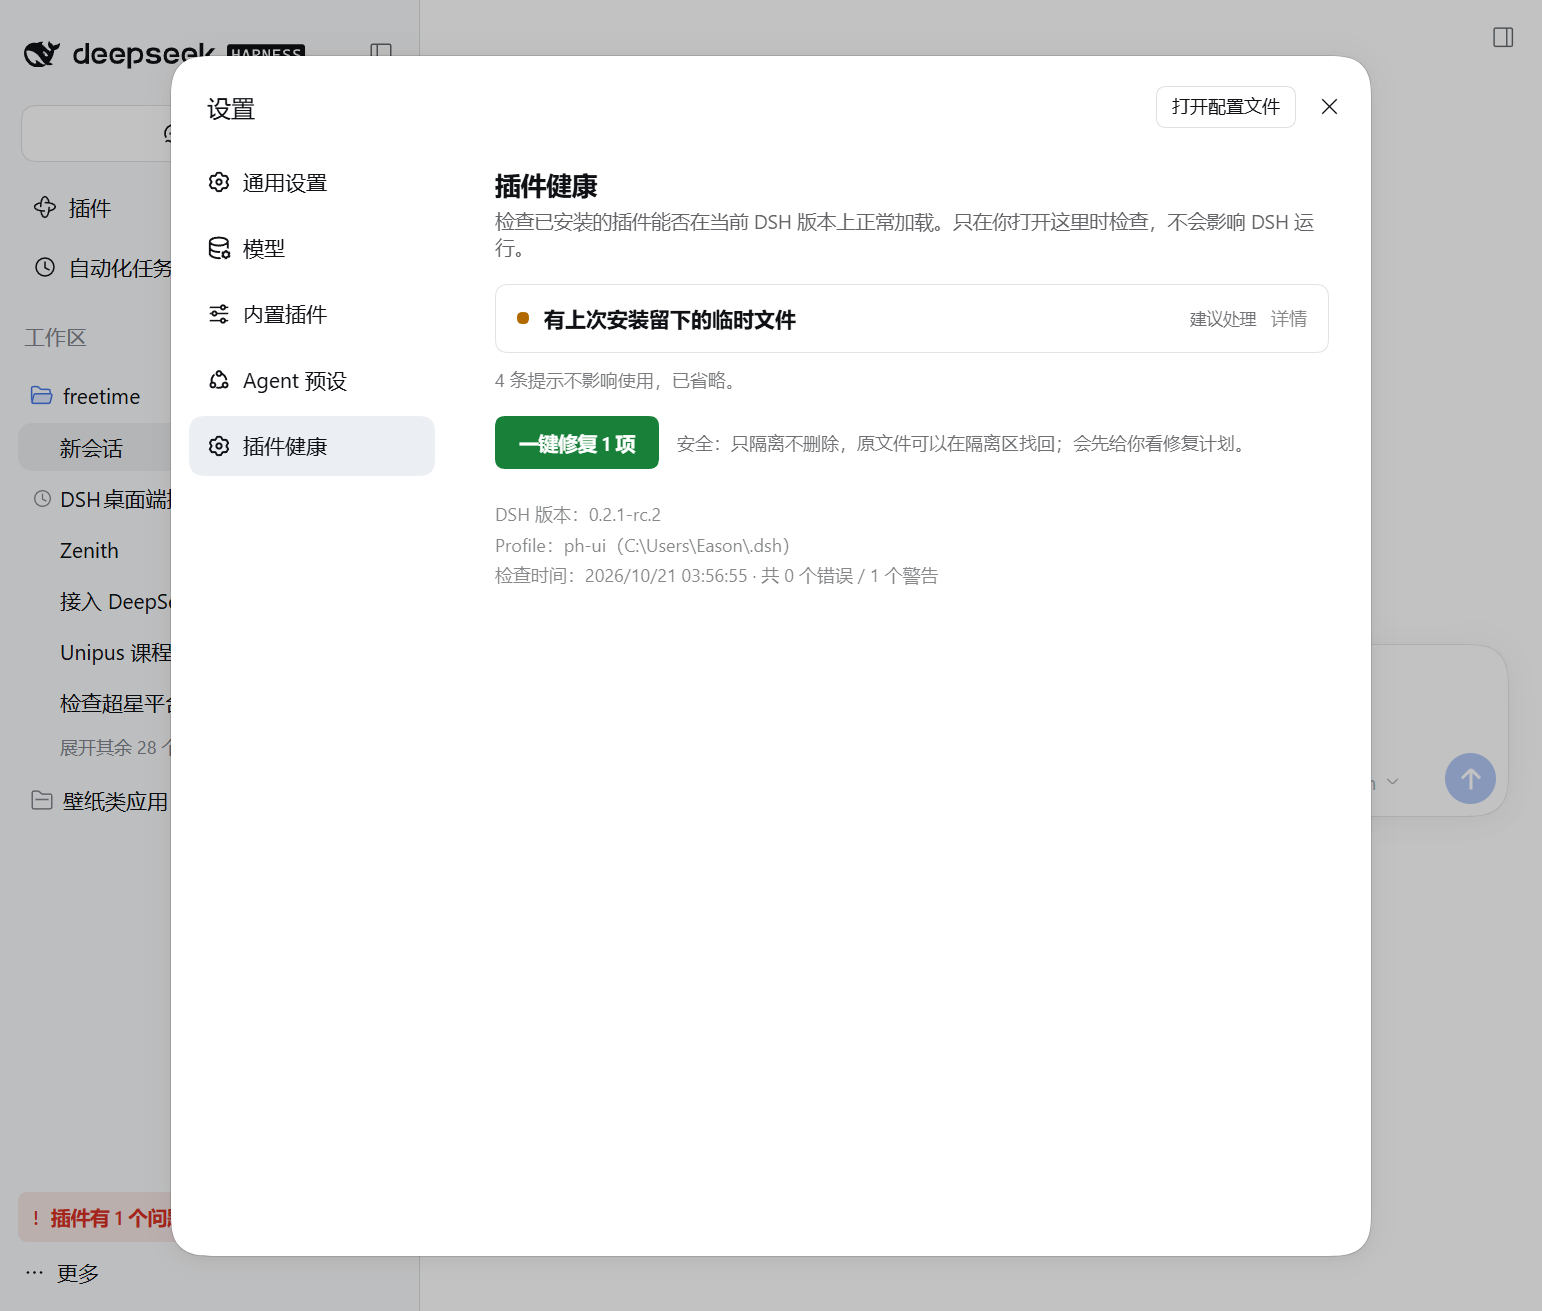
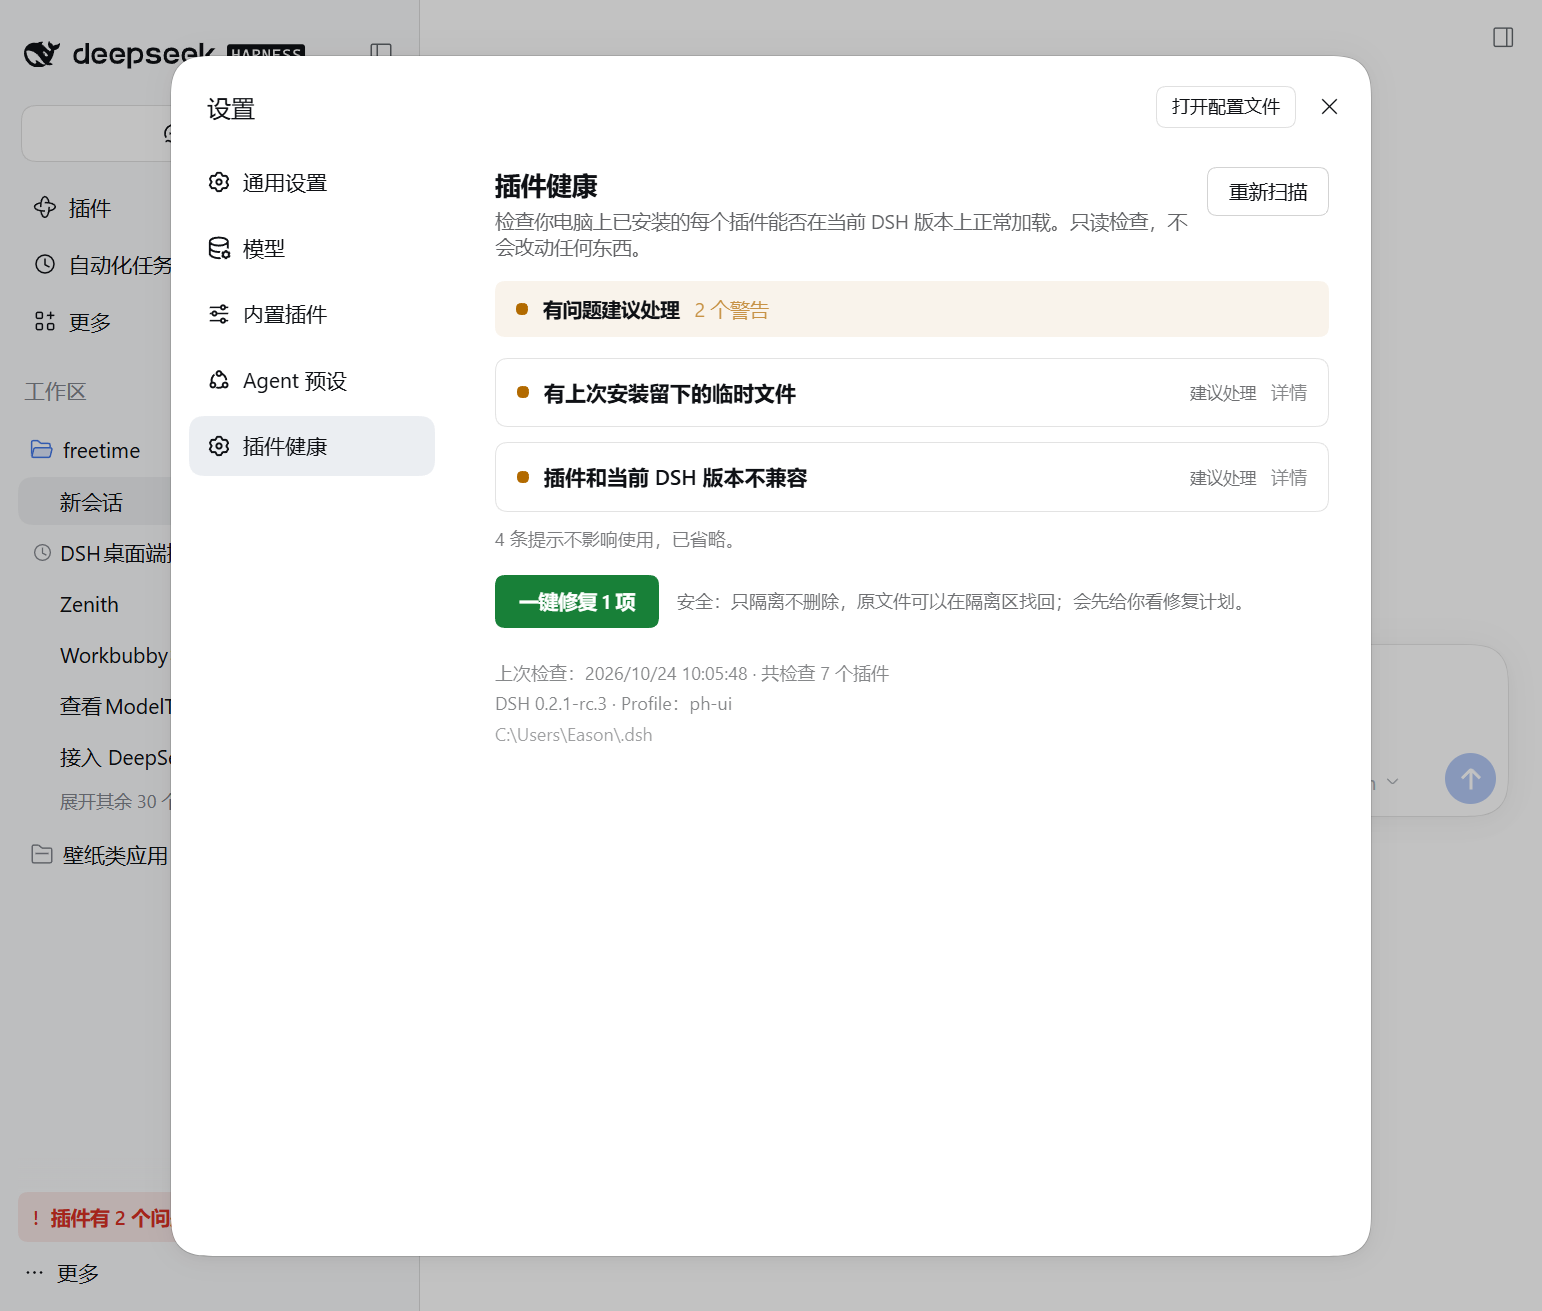
feat(ui): verdict line, checked-plugin count, rescan button

diff --git a/src/ui/client.js b/src/ui/client.js
@@ -282,7 +282,7 @@ window.__ModuleLoader__.load({
       ])
     }
 
-    function EmptyState() {
+    function EmptyState({ scanned }) {
       return h('div', {
         style: {
           display: 'flex',
@@ -294,32 +294,107 @@ window.__ModuleLoader__.load({
           color: COLORS.ok,
           fontSize: 14,
           fontWeight: 600,
+          flexWrap: 'wrap',
         },
-      }, [h('span', { key: 'i', style: { fontSize: 18 } }, '✓'), h('span', { key: 't' }, '一切正常，没有发现插件冲突')])
+      }, [
+        h('span', { key: 'i', style: { fontSize: 18 } }, '✓'),
+        h('span', { key: 't' }, '一切正常，没有发现插件冲突'),
+        scanned !== undefined
+          ? h('span', { key: 'n', style: { fontSize: 12, fontWeight: 400, opacity: 0.65 } }, `已检查 ${scanned} 个已安装插件`)
+          : null,
+      ])
+    }
+
+    /** One-line verdict a first-time user can act on without reading the list. */
+    function Verdict({ errorCount, warnCount, scanned, runtimeVersion }) {
+      const parts = []
+      if (errorCount > 0) parts.push(h('span', { key: 'e', style: { color: COLORS.error } }, `${errorCount} 个错误`))
+      if (warnCount > 0) parts.push(h('span', { key: 'w', style: { color: COLORS.warn } }, `${warnCount} 个警告`))
+      const clean = errorCount === 0 && warnCount === 0
+      return h('div', {
+        style: {
+          display: 'flex',
+          alignItems: 'center',
+          gap: 10,
+          flexWrap: 'wrap',
+          padding: '10px 14px',
+          borderRadius: 8,
+          marginBottom: 14,
+          fontSize: 13,
+          background: clean ? 'rgba(52,168,83,.08)' : 'rgba(178,106,0,.08)',
+        },
+      }, [
+        h('span', { key: 'd', style: { width: 8, height: 8, borderRadius: '50%', background: clean ? COLORS.ok : COLORS.warn, flex: '0 0 auto' } }),
+        h('span', { key: 't', style: { fontWeight: 600 } }, clean ? '可以放心用' : '有问题建议处理'),
+        h('span', { key: 's', style: { opacity: 0.7 } }, clean
+          ? `共检查 ${scanned ?? '?'} 个插件${runtimeVersion ? `，DSH ${runtimeVersion}` : ''}`
+          : parts),
+      ])
+    }
+
+    function ScanButton({ onClick, busy }) {
+      return h('button', {
+        onClick,
+        disabled: busy === true,
+        style: {
+          border: '1px solid rgba(128,128,128,.35)',
+          borderRadius: 8,
+          padding: '7px 14px',
+          cursor: busy === true ? 'default' : 'pointer',
+          background: 'transparent',
+          color: 'inherit',
+          font: 'inherit',
+          fontSize: 13,
+          opacity: busy === true ? 0.55 : 1,
+        },
+      }, busy === true ? '正在扫描…' : '重新扫描')
     }
 
     function HealthSection() {
       const { loading, error, data, reload } = useStatus()
       const repair = useRepair(reload)
+      const [scanning, setScanning] = React.useState(false)
       const issues = data?.issues ?? []
       const actionable = issues.filter((issue) => issue.severity !== 'info')
       const autoFixable = actionable.filter((issue) => issue.autoFixable === true)
       const summary = data?.summary ?? {}
       const repairKey = data?.repairKey
+      const scanned = data?.scanned?.plugins?.total
+
+      const rescan = React.useCallback(async () => {
+        setScanning(true)
+        try {
+          await reload()
+        } finally {
+          setScanning(false)
+        }
+      }, [reload])
 
       return h('div', { style: { padding: '20px 4px', maxWidth: 760 } }, [
-        h('div', { key: 'head', style: { marginBottom: 16 } }, [
-          h('div', { key: 't', style: { fontSize: 17, fontWeight: 700 } }, '插件健康'),
-          h('div', { key: 's', style: { fontSize: 13, opacity: 0.65, marginTop: 4 } },
-            '检查已安装的插件能否在当前 DSH 版本上正常加载。只在你打开这里时检查，不会影响 DSH 运行。'),
+        h('div', { key: 'head', style: { marginBottom: 14, display: 'flex', alignItems: 'flex-start', gap: 12, flexWrap: 'wrap' } }, [
+          h('div', { key: 'l', style: { flex: '1 1 320px', minWidth: 0 } }, [
+            h('div', { key: 't', style: { fontSize: 17, fontWeight: 700 } }, '插件健康'),
+            h('div', { key: 's', style: { fontSize: 13, opacity: 0.65, marginTop: 4 } },
+              '检查你电脑上已安装的每个插件能否在当前 DSH 版本上正常加载。只读检查，不会改动任何东西。'),
+          ]),
+          h('div', { key: 'r', style: { flex: '0 0 auto' } }, h(ScanButton, { onClick: rescan, busy: scanning || loading })),
         ]),
         loading ? h('div', { key: 'l', style: { fontSize: 13, opacity: 0.7 } }, '正在检查…') : null,
         error !== undefined ? h('div', { key: 'e', style: { fontSize: 13, color: COLORS.warn } }, [
           h('div', { key: 't', style: { fontWeight: 600, marginBottom: 4 } }, '检查失败'),
           h('div', { key: 'd' }, error),
-          h('div', { key: 'h', style: { marginTop: 4, opacity: 0.7 } }, 'DSH 刚启动时可能还没准备好，页面会自动重试。'),
+          h('div', { key: 'h', style: { marginTop: 4, opacity: 0.7 } }, 'DSH 刚启动时可能还没准备好，点「重新扫描」再试一次。'),
         ]) : null,
-        !loading && error === undefined ? (actionable.length === 0 ? h(EmptyState, { key: 'ok' }) : h('div', { key: 'list' },
+        !loading && error === undefined
+          ? h(Verdict, {
+            key: 'v',
+            errorCount: summary.error ?? 0,
+            warnCount: summary.warn ?? 0,
+            scanned,
+            runtimeVersion: data?.runtimeVersion,
+          })
+          : null,
+        !loading && error === undefined ? (actionable.length === 0 ? h(EmptyState, { key: 'ok', scanned }) : h('div', { key: 'list' },
           actionable.map((issue, index) => h(Finding, { key: `${issue.id}-${index}`, issue })))) : null,
         !loading && error === undefined && issues.length > actionable.length
           ? h('div', { key: 'info', style: { marginTop: 6, fontSize: 12, opacity: 0.55 } },
@@ -389,9 +464,9 @@ window.__ModuleLoader__.load({
           : null,
         data
           ? h('div', { key: 'meta', style: { marginTop: 20, fontSize: 12, opacity: 0.5, lineHeight: 1.7 } }, [
-            h('div', { key: 'v' }, `DSH 版本：${data.runtimeVersion ?? '未知'}`),
-            h('div', { key: 'p' }, `Profile：${data.profile ?? '未知'}（${data.home}）`),
-            h('div', { key: 'c' }, `检查时间：${new Date(data.generatedAt).toLocaleString()} · 共 ${summary.error ?? 0} 个错误 / ${summary.warn ?? 0} 个警告`),
+            h('div', { key: 'c' }, `上次检查：${new Date(data.generatedAt).toLocaleString()}${scanned !== undefined ? ` · 共检查 ${scanned} 个插件` : ''}`),
+            h('div', { key: 'v' }, `DSH ${data.runtimeVersion ?? '未知'} · Profile：${data.profile ?? '未知'}`),
+            h('div', { key: 'h', style: { opacity: 0.8 } }, `${data.home}`),
           ])
           : null,
       ])

diff --git a/src/ui/status.js b/src/ui/status.js
@@ -10,7 +10,7 @@ export const STATUS_PATH = '/plugins/dsh-plugin-health/status'
 /**
  * Turn an inspection result into the small document the UI consumes.
  * @param {{home?: string, profile?: string, runtimeVersion?: string, now?: number}} [options]
- * @returns {{schemaVersion: number, generatedAt: string, runtimeVersion: string|null, profile: string|null, profileDir: string|null, home: string, summary: object, incompatible: number, issues: object[]}}
+ * @returns {{schemaVersion: number, generatedAt: string, runtimeVersion: string|null, profile: string|null, profileDir: string|null, home: string, summary: object, incompatible: number, scanned: object, issues: object[]}}
  */
 export function buildStatus({ home, profile, runtimeVersion, now = Date.now() } = {}) {
   const result = inspectDshHome({ home, profile, runtimeVersion })
@@ -23,7 +23,7 @@ export function buildStatus({ home, profile, runtimeVersion, now = Date.now() } 
     autoFixable: item.fix?.auto === true,
   }))
   return {
-    schemaVersion: 1,
+    schemaVersion: 2,
     generatedAt: new Date(now).toISOString(),
     runtimeVersion: typeof runtimeVersion === 'string' && runtimeVersion !== '' ? runtimeVersion : null,
     profile: result.profile ?? null,
@@ -31,6 +31,8 @@ export function buildStatus({ home, profile, runtimeVersion, now = Date.now() } 
     home: result.home,
     summary: result.summary,
     incompatible: issues.filter((issue) => issue.id === 'plugin-incompatible').length,
+    // What was actually inspected, so the UI can say "checked N plugins" instead of implying a sample.
+    scanned: { plugins: result.scannedPlugins ?? null },
     issues,
   }
 }

diff --git a/test/ui.test.js b/test/ui.test.js
@@ -23,12 +23,14 @@ test('buildStatus reports a healthy empty profile', () => {
   const home = tempHome()
   try {
     const status = buildStatus({ home, profile: 'desktop', runtimeVersion: '0.2.1-rc.2', now: 0 })
-    assert.equal(status.schemaVersion, 1)
+    assert.equal(status.schemaVersion, 2)
     assert.equal(status.profile, 'desktop')
     assert.equal(status.runtimeVersion, '0.2.1-rc.2')
     assert.equal(status.incompatible, 0)
     assert.equal(status.generatedAt, new Date(0).toISOString())
     assert.ok(Array.isArray(status.issues))
+    // The UI says "checked N plugins"; the count must describe what was actually inspected.
+    assert.equal(typeof status.scanned?.plugins?.total, 'number')
   } finally {
     rmSync(home, { recursive: true, force: true })
   }

diff --git a/src/repair/inspect.js b/src/repair/inspect.js
@@ -139,6 +139,16 @@ export function inspectDshHome({ home, profile, runtimeVersion } = {}) {
   inspectRuntime(profileDir, bundles, runtimeVersion, findings, manifest)
   inspectProfileDrift(resolvedHome, selected, findings)
 
+  // How many plugins were actually checked, so the UI can say "checked N" instead of implying a
+  // sample. Host packages are reported separately because they are the reference, not the subject.
+  if (manifest !== undefined) {
+    const installed = listInstalledPlugins(profileDir, manifest)
+    result.scannedPlugins = {
+      total: installed.length,
+      thirdParty: installed.filter((item) => !item.name.startsWith('@deepseek-ai/')).length,
+    }
+  }
+
   return withSummary(result)
 }
 

diff --git a/README.md b/README.md
@@ -26,17 +26,22 @@ Install it as a bundle and DSH gets a native **Settings → 插件健康** secti
 dsh plugin --profile web add dsh-plugin-health
 ```
 
+- **It checks every plugin you actually have installed**, not a sample and not just the bundle list:
+  bundles, `package.json` dependencies, `cordis.patch.yml` inserts (including nested ones), and
+  anything plugin-shaped in `node_modules`. The header tells you how many were inspected.
 - Every finding is written in plain language with a concrete next step — a first-time user can act
   without reading CLI docs.
+- One line at the top says whether you can relax (`可以放心用`) or should act (`有问题建议处理`), and a
+  `重新扫描` button re-runs the check on demand.
 - **If nothing is wrong, nothing is shown.** The plugin adds no badge, no banner, no sidebar entry.
 - **When something is wrong**, a compact `插件有 N 个问题` entry appears above the account menu and
   jumps straight to the section.
 - The host half only serves a loopback-only read-only snapshot; the plugin never modifies your
   profile.
 
-| Finding + one-click repair | Dry-run plan before any write |
+| Findings, verdict line, one-click repair | Dry-run plan before any write |
 | --- | --- |
-| ![Settings section with a finding and the repair button](docs/images/settings-finding.png) | ![Repair plan shown before applying](docs/images/settings-repair-plan.png) |
+| ![Settings section with findings and the repair button](docs/images/settings-finding.png) | ![Repair plan shown before applying](docs/images/settings-repair-plan.png) |
 
 > **Upgrading DSH? Run the check first.**
 >

diff --git a/README.zh.md b/README.zh.md
@@ -25,12 +25,16 @@ DeepSeek Harness（dsh）插件的**多宿主版本兼容矩阵**、**官方 for
 dsh plugin --profile web add dsh-plugin-health
 ```
 
+- **它检查的是你机器上真实安装的每一个插件**，不是抽样，也不只看 bundle 列表：
+  bundle、`package.json` 依赖、`cordis.patch.yml` 的 insert（含嵌套）、`node_modules` 里所有插件形态的包。
+  页面顶部会直接告诉你这次检查了多少个。
 - 每条问题都用大白话解释，并给出「怎么做」，第一次用的人不用读文档也能处理；
+- 顶部一行结论告诉你该不该担心：`可以放心用` 或 `有问题建议处理`；旁边有 `重新扫描` 按钮随时重跑；
 - **一切正常时什么都不显示**：没有徽章、没有横幅、没有侧栏条目；
 - **真的有问题时**，账号菜单上方会出现一个 `插件有 N 个问题` 的小入口，点一下直接跳到设置分区；
 - host 半身只提供 loopback 只读快照，不会修改你的 profile。
 
-| 发现问题 + 一键修复 | 执行前先给你看修复计划 |
+| 问题列表 + 结论行 + 一键修复 | 执行前先给你看修复计划 |
 | --- | --- |
 | ![设置页里的问题与修复按钮](docs/images/settings-finding.png) | ![执行前展示的修复计划](docs/images/settings-repair-plan.png) |
 

diff --git a/CHANGELOG.md b/CHANGELOG.md
@@ -1,5 +1,18 @@
 # Changelog
 
+## 0.4.1 (2026-10-24)
+
+### Changed
+
+- **The settings section now leads with a verdict, not a list.** A single line says whether you can
+  relax (`可以放心用`) or should act (`有问题建议处理`), followed by the exact number of plugins that
+  were inspected — so "clean" is backed by a visible count instead of a bare green box.
+- **`重新扫描` button**: re-runs the check on demand instead of waiting for the 30 s poll.
+- Copy rewritten for a first-time user: the subtitle now states plainly that every installed plugin
+  is checked and that the check is read-only.
+- The empty state repeats the inspected count, so a clean result is auditable.
+- Footer demoted to secondary detail (last check time, DSH version, profile, home).
+
 ## 0.4.0 (2026-10-24)
 
 ### Fixed
